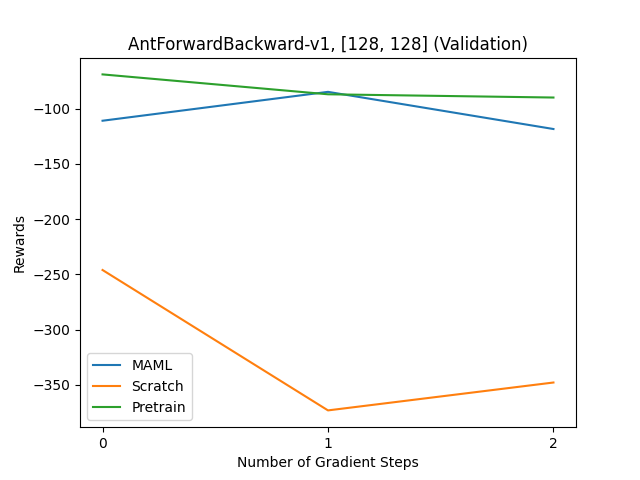
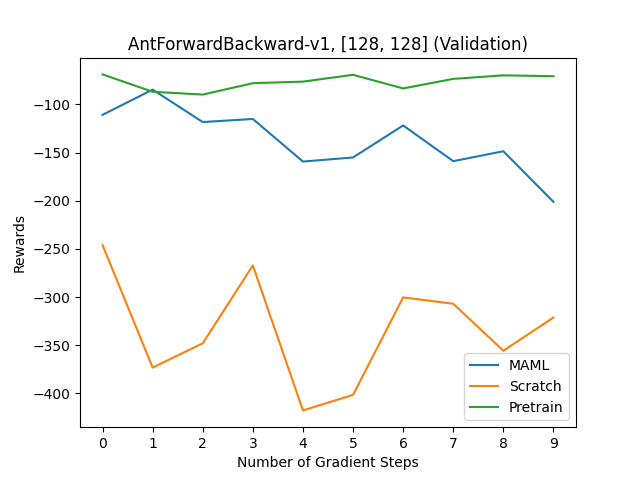
grad steps graph

diff --git a/plot.py b/plot.py
@@ -62,11 +62,11 @@ if __name__ == "__main__":
     # plotGraphs("HalfCheetahForwardBackward-v1", [128], show=True)
     # plotGraphs("HalfCheetahForwardBackward-v1", [128,128], show=True)
     # plotGraphs("HalfCheetahForwardBackward-v1", [128,128, 128], show=True)
-
-    plotGraphs("HumanoidForwardBackward-v1", [128], show=True)
-    plotGraphs("HumanoidForwardBackward-v1", [128,128], show=True)
-    plotGraphs("HumanoidForwardBackward-v1", [128,128,128], show=True)
-    plotGraphs("AntForwardBackward-v1", [128] ,show=True)
-    plotGraphs("AntForwardBackward-v1", [128,128], show=True)
-    plotGraphs("AntForwardBackward-v1", [128,128, 128], show=True)
+    grad_steps = 10
+    plotGraphs("HumanoidForwardBackward-v1", [128], grad_steps=grad_steps, show=True)
+    plotGraphs("HumanoidForwardBackward-v1", [128,128], grad_steps=grad_steps, show=True)
+    plotGraphs("HumanoidForwardBackward-v1", [128,128,128], grad_steps=grad_steps, show=True)
+    plotGraphs("AntForwardBackward-v1", [128], grad_steps=grad_steps, show=True)
+    plotGraphs("AntForwardBackward-v1", [128,128], grad_steps=grad_steps, show=True)
+    plotGraphs("AntForwardBackward-v1", [128,128, 128], grad_steps=grad_steps, show=True)
 
